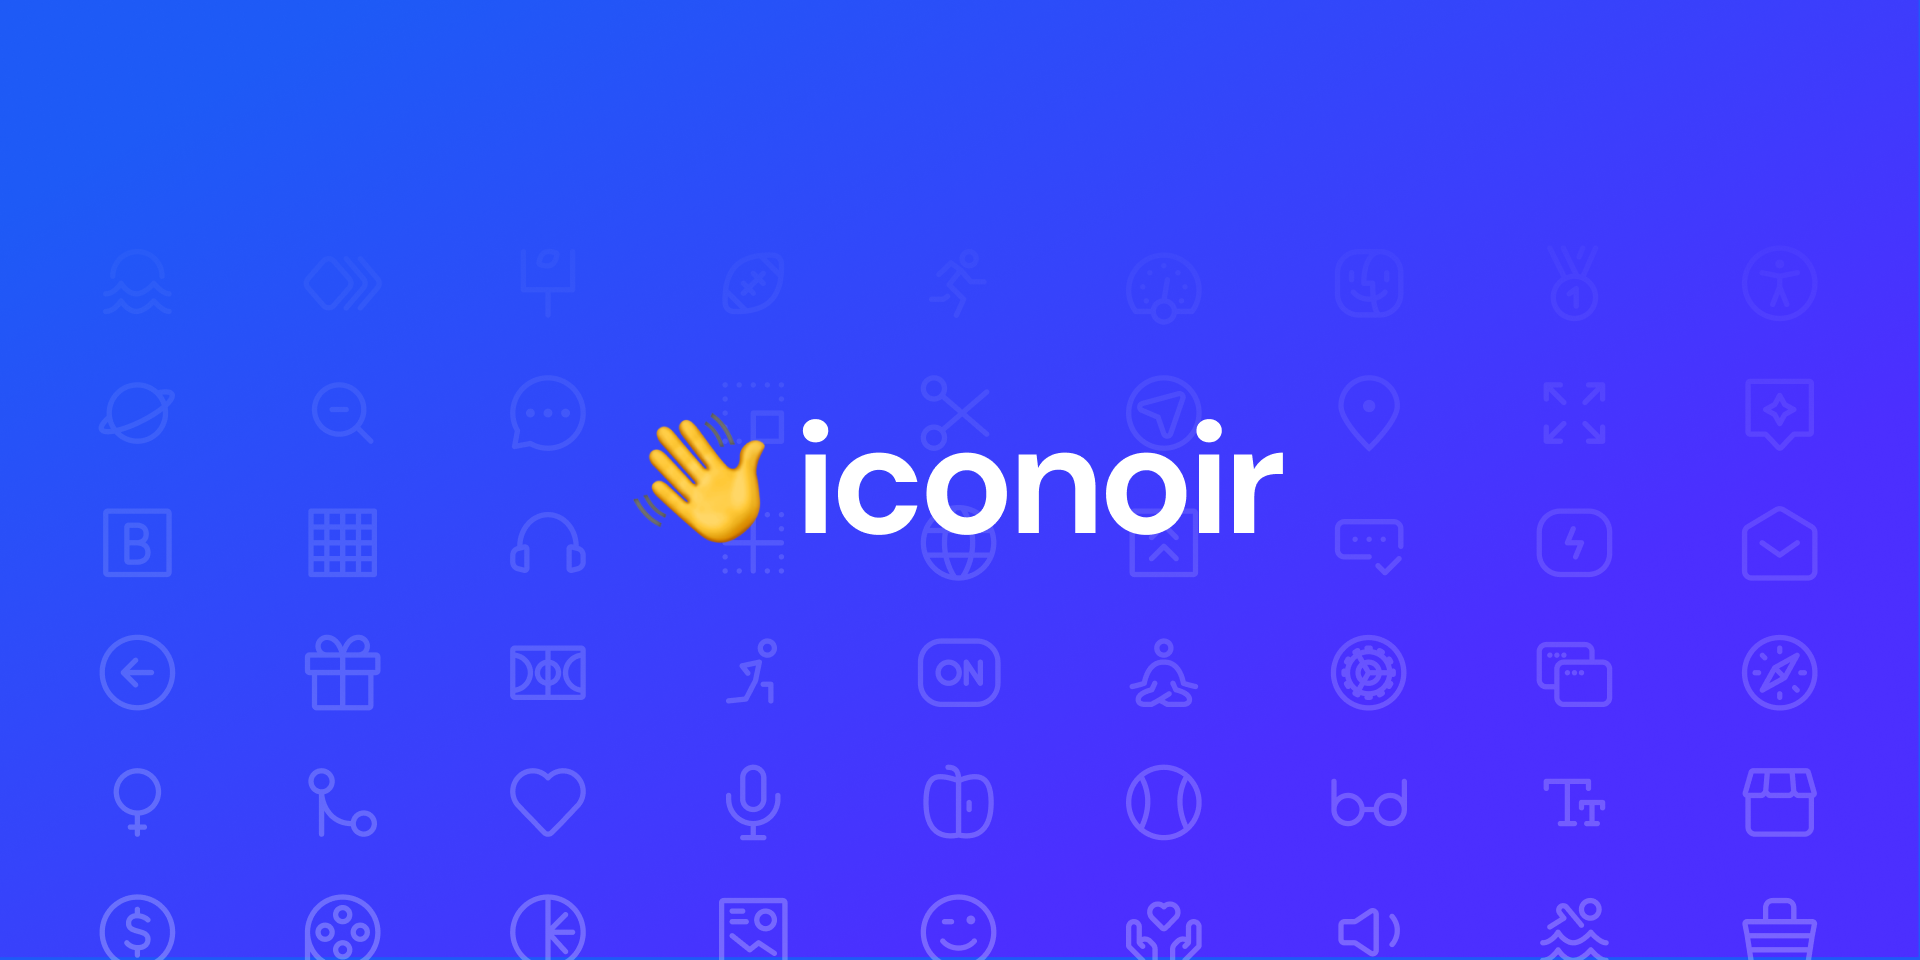
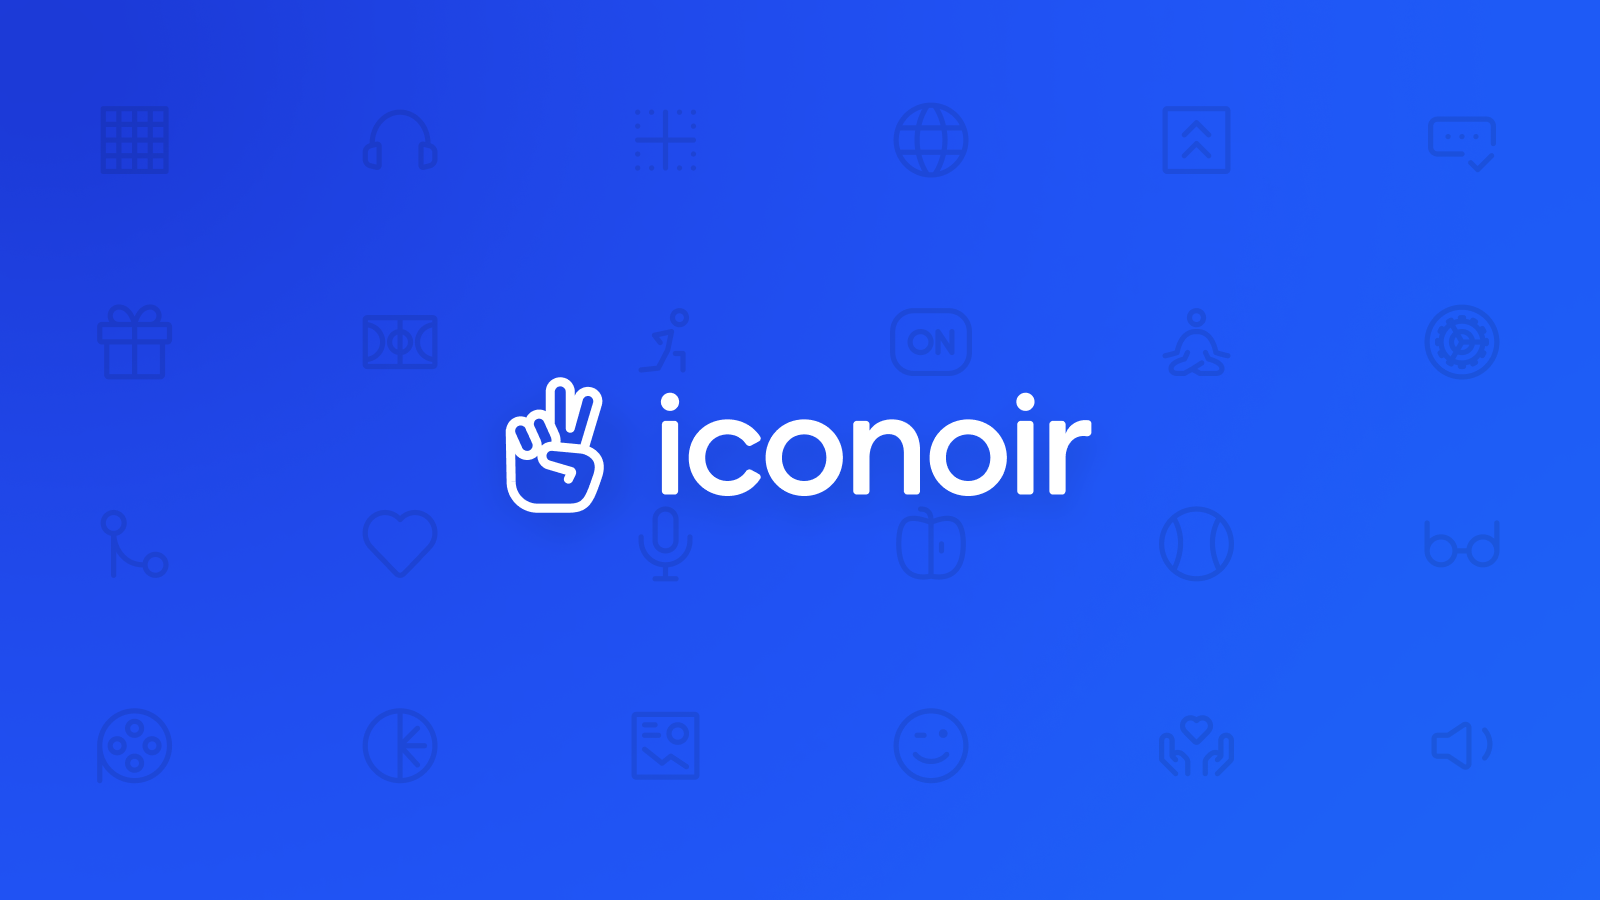
add: new asset in README

diff --git a/README.md b/README.md
@@ -1,5 +1,5 @@
 <p align="center">
-  <img src="assets/iconoir.png" alt="Iconoir">
+  <img src="assets/iconoir.png?v=1.1" alt="Iconoir">
 </p>
 
 <p align="center">
